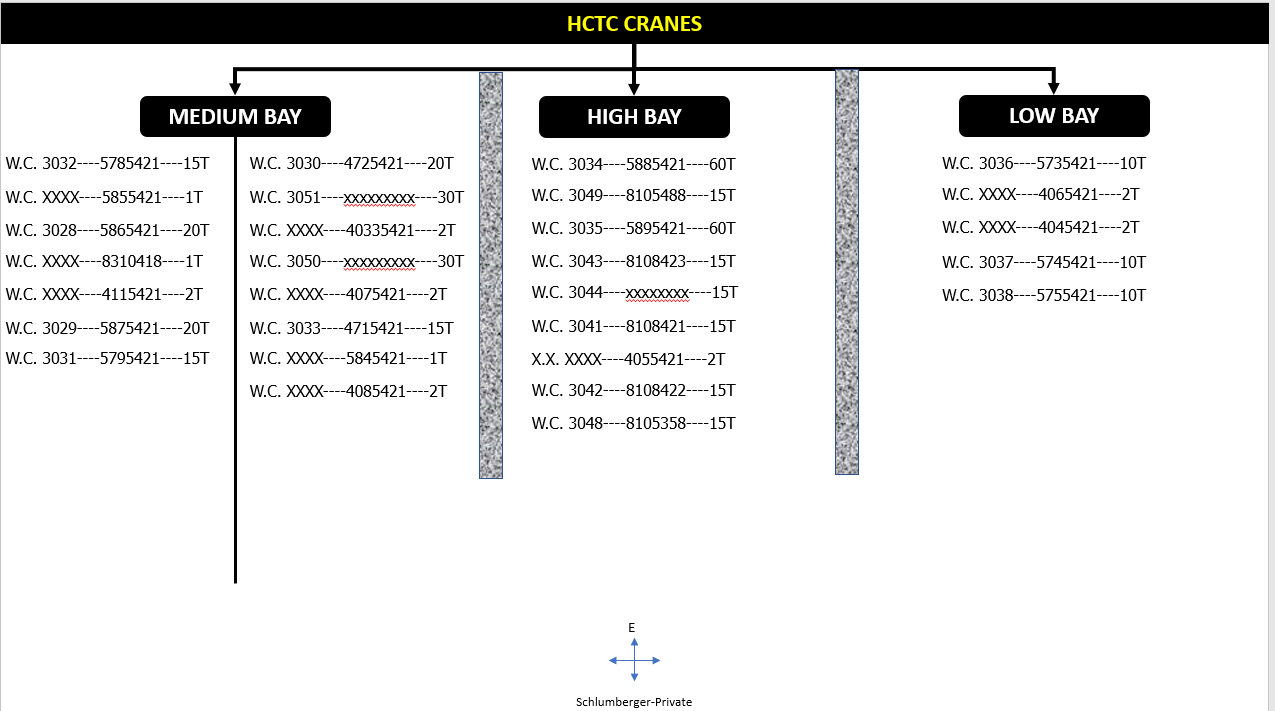
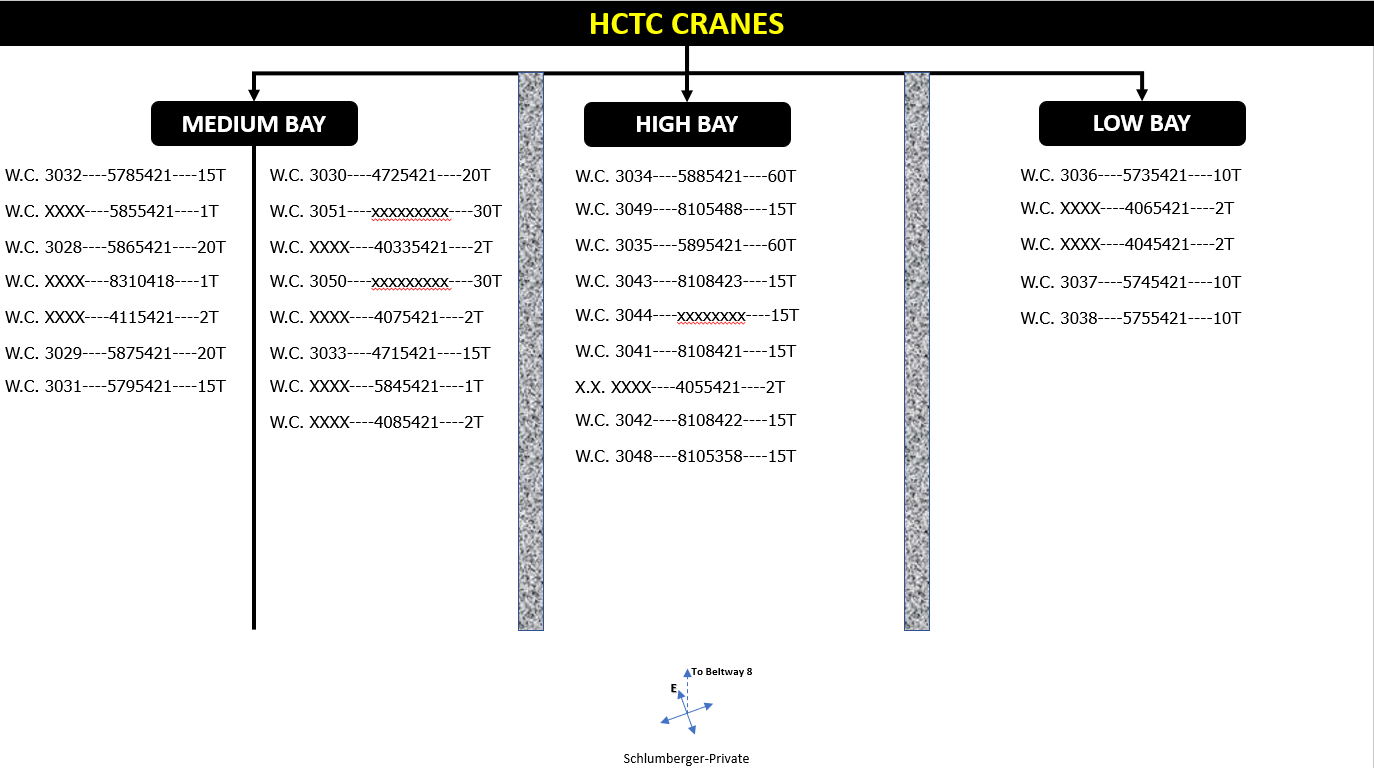
Updated the radiobutton features in gui_build.py. Updated the cranes.png image for futher mapping.

diff --git a/gui_maker/gui_build.py b/gui_maker/gui_build.py
@@ -29,6 +29,7 @@ class UI(Tk):
         self.window_colors=kwargs["win_color"]
         self.title(kwargs["title"])
         self.window_width=kwargs["window_width"]
+        self.menubar=Menu(self)
         self.initialize()
 
         fg='white'
@@ -45,15 +46,15 @@ class UI(Tk):
 #         self.attributes('-fullscreen', True)
         self['borderwidth']=4
         self['bg']=self.window_colors
-        self.menubar=Menu(self)
+        # self.menubar=Menu(self)
         self.menubar.add_command(label="Exit",font='ariel',command=self.bye_bye)
         self.menubar.add_command(label="Instructions",font='ariel',command=None)
         self.config(menu=self.menubar)
 
-    # def menu_build(self):
-    #     self.menubar=Menu(self)
-    #     self.menubar.add_command(label="Create Project",font='ariel',command=None)
-    #     self.config(menu=self.menubar)
+    def menu_build(self):
+        # self.menubar=Menu(self)
+        self.menubar.add_command(label="Create Project",font='ariel',command=None)
+        self.config(menu=self.menubar)
 
 
 
@@ -202,6 +203,8 @@ class CheckBoxes(Tk):
     def __init__(self,the_frame,name,check_label,row,col,command,*args,**kwargs):
         """Create the UI Checkbox Box with accompaning labels"""
         
+        self.check_box_label=Label(the_frame,text=name,bg='blue',fg='yellow',font='Ariel 12 bold')
+
         self.var=IntVar()
         self.check_box=Checkbutton(master=the_frame,
         text=check_label,
@@ -212,7 +215,8 @@ class CheckBoxes(Tk):
         font='Ariel 15 bold',
         variable=self.var,
         command=command)
-       
+
+        self.check_box_label.grid(row=row,column=col,columnspan=1,pady=1,sticky=W)
         self.check_box.grid(row=(row+1),column=col,pady=1,sticky=W)
 
 class Labels(Tk):
@@ -359,10 +363,42 @@ class Entries(Tk):
 
 
 class RadioButtons(Tk):
-    def __init__(self,the_frame,name,row,col,fw=30,*args,**kwargs):
+    def __init__(self,the_frame,name,row,col,radio_dict,*args,**kwargs):
         """Create the UI radiobuttons with accompaning labels"""
-        field_widths=fw
+        # field_widths=fw
+
+        if 'bg' in kwargs:
+            bg=kwargs['bg']
+        else:
+            bg='blue'
+
+        if 'fg' in kwargs:
+            fg=kwargs['fg']
+        else:
+            fg='yellow'
+
+        if 'font' in kwargs:
+            font=kwargs['fg']
+        else:
+            font='Ariel 12 bold'
+
+
         self.txt=name
-        self.radio_label=Label(the_frame,text=self.txt,bg='blue',fg='yellow',font='Ariel 12 bold')
+        self.radio_label=Label(the_frame,text=self.txt,bg=bg,fg=fg,font='Ariel 12 bold')
+        self.radio_label.grid(row=row,column=col,columnspan=1,pady=1,sticky=W)
+        row+=1
+        for key, val in radio_dict.items():
+                self.radio=Radiobutton(the_frame, 
+                        text=key,
+                        padx = 20, 
+                        variable=None, 
+                        command=None,
+                        value=val,bg=bg,fg=fg,
+                        font=font)
+                    
+                print(row)
+                self.radio.grid(row=(row),column=col,columnspan=1,pady=1,sticky=W)
+                row+=1
 
 
+    
